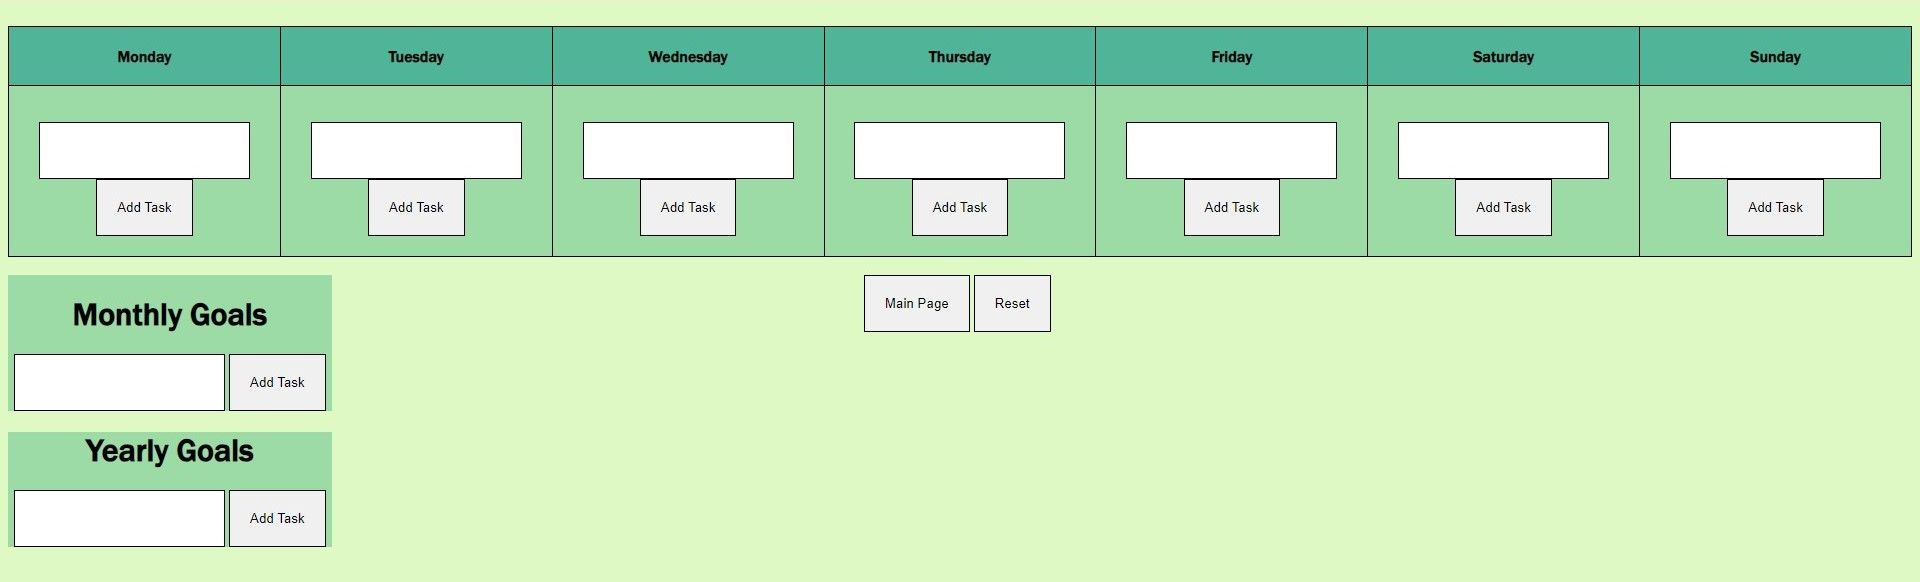
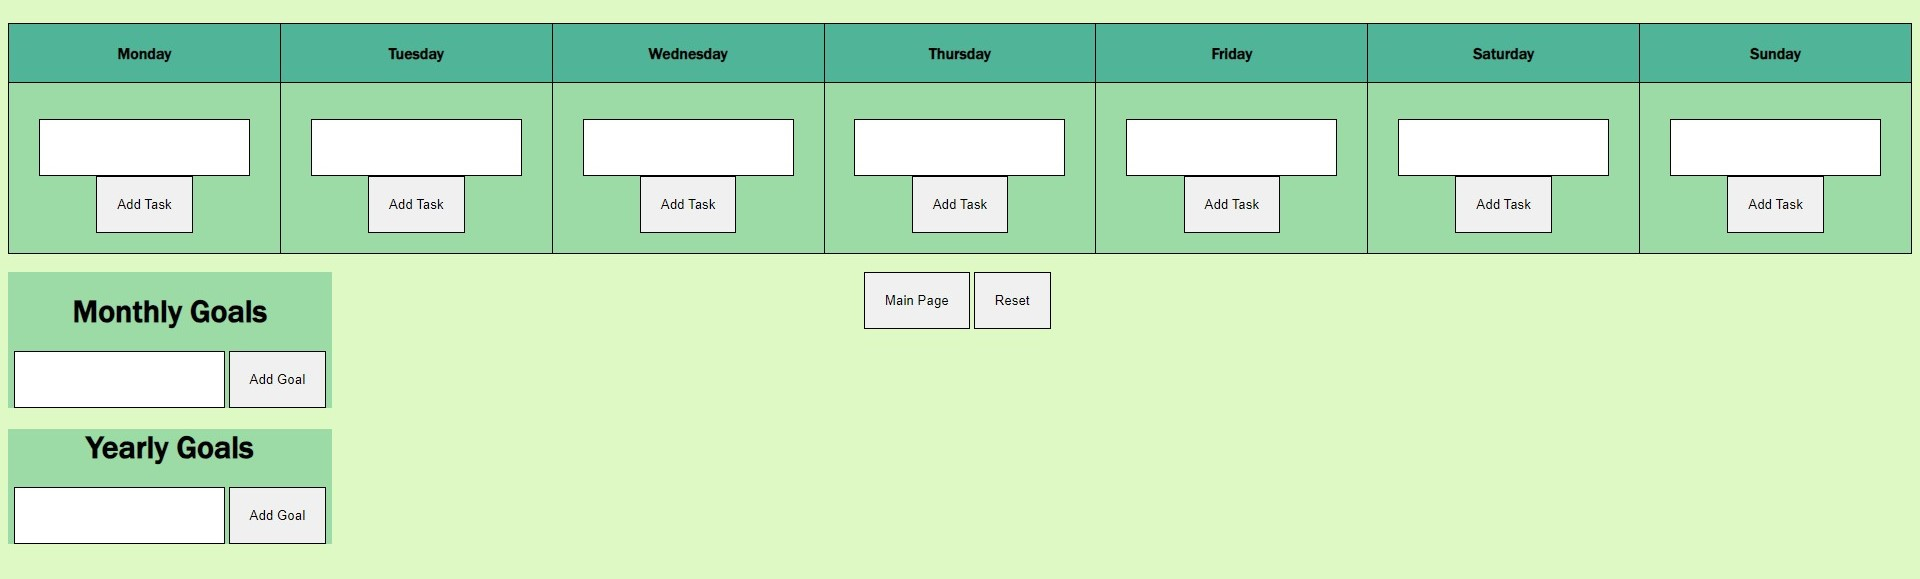
very minor changes

diff --git a/planner3.html b/planner3.html
@@ -38,7 +38,7 @@
     <div class="Monthly">
         <h1>Monthly Goals</h1>
         <ul id="Monthly"></ul>
-        <input type="text" id="monthlyGoals"> <button onclick="addTask(document.getElementById('monthlyGoals'), document.getElementById('Monthly') )">Add Task</button>
+        <input type="text" id="monthlyGoals"> <button onclick="addTask(document.getElementById('monthlyGoals'), document.getElementById('Monthly') )">Add Goal</button>
     </div>
 
     <div class="buttons">
@@ -49,7 +49,7 @@
     <div class="Yearly">
         <h1>Yearly Goals</h1>
         <ul id="Yearly"></ul>
-        <input type="text" id="yearlyGoals"> <button onclick="addTask(document.getElementById('yearlyGoals'), document.getElementById('Yearly') )">Add Task</button>
+        <input type="text" id="yearlyGoals"> <button onclick="addTask(document.getElementById('yearlyGoals'), document.getElementById('Yearly') )">Add Goal</button>
     </div>
     
 <script src="assets/js/scripts.js"></script>
